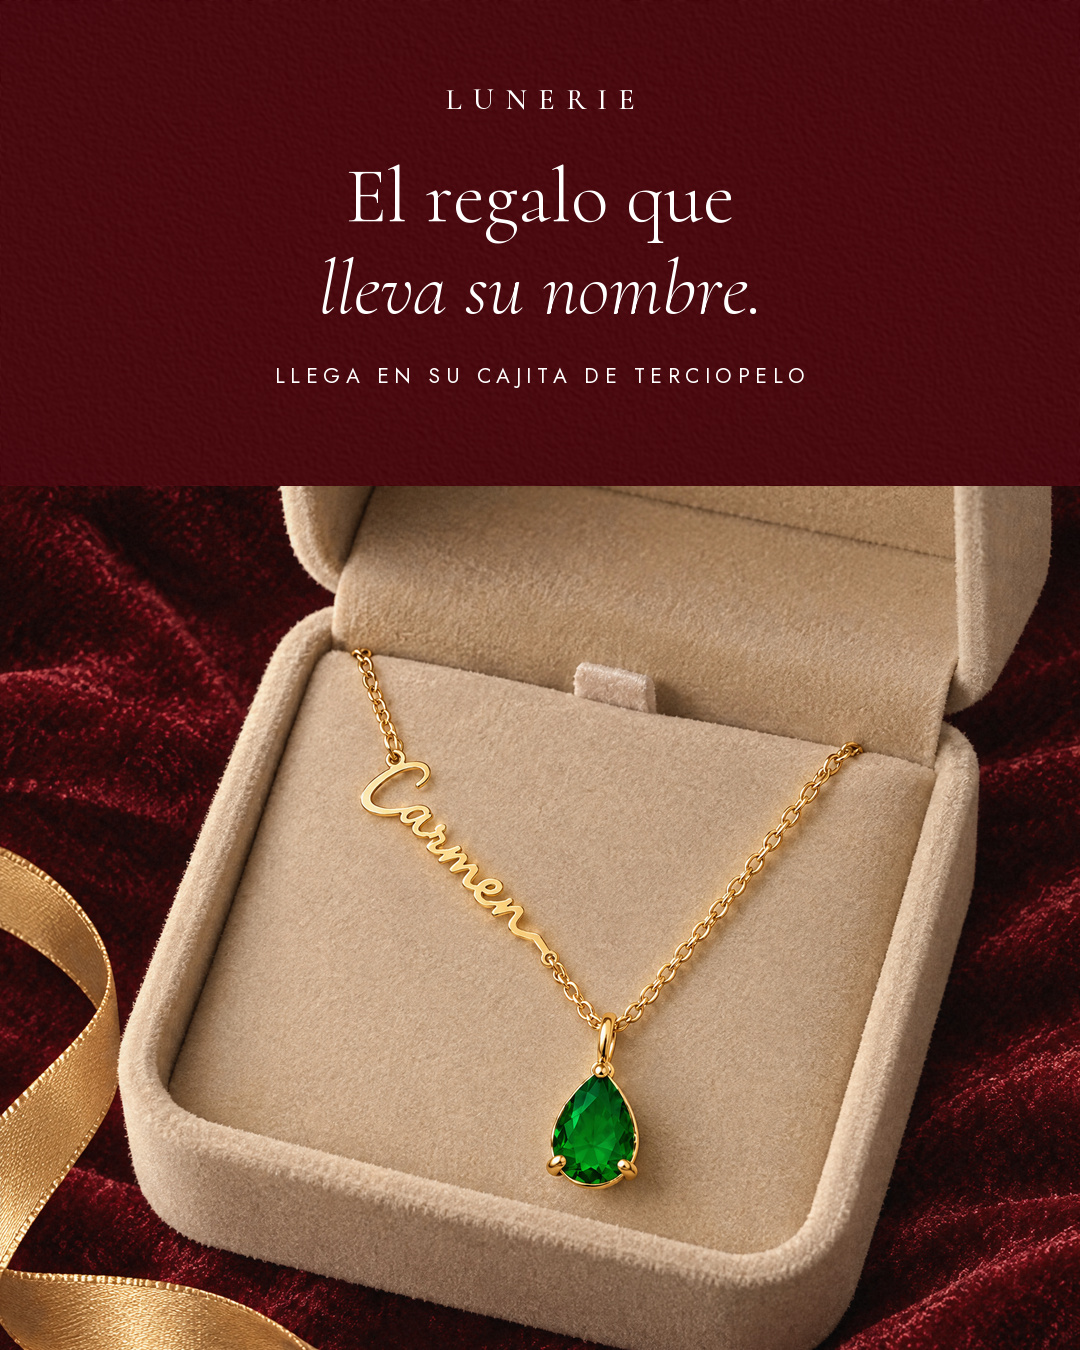
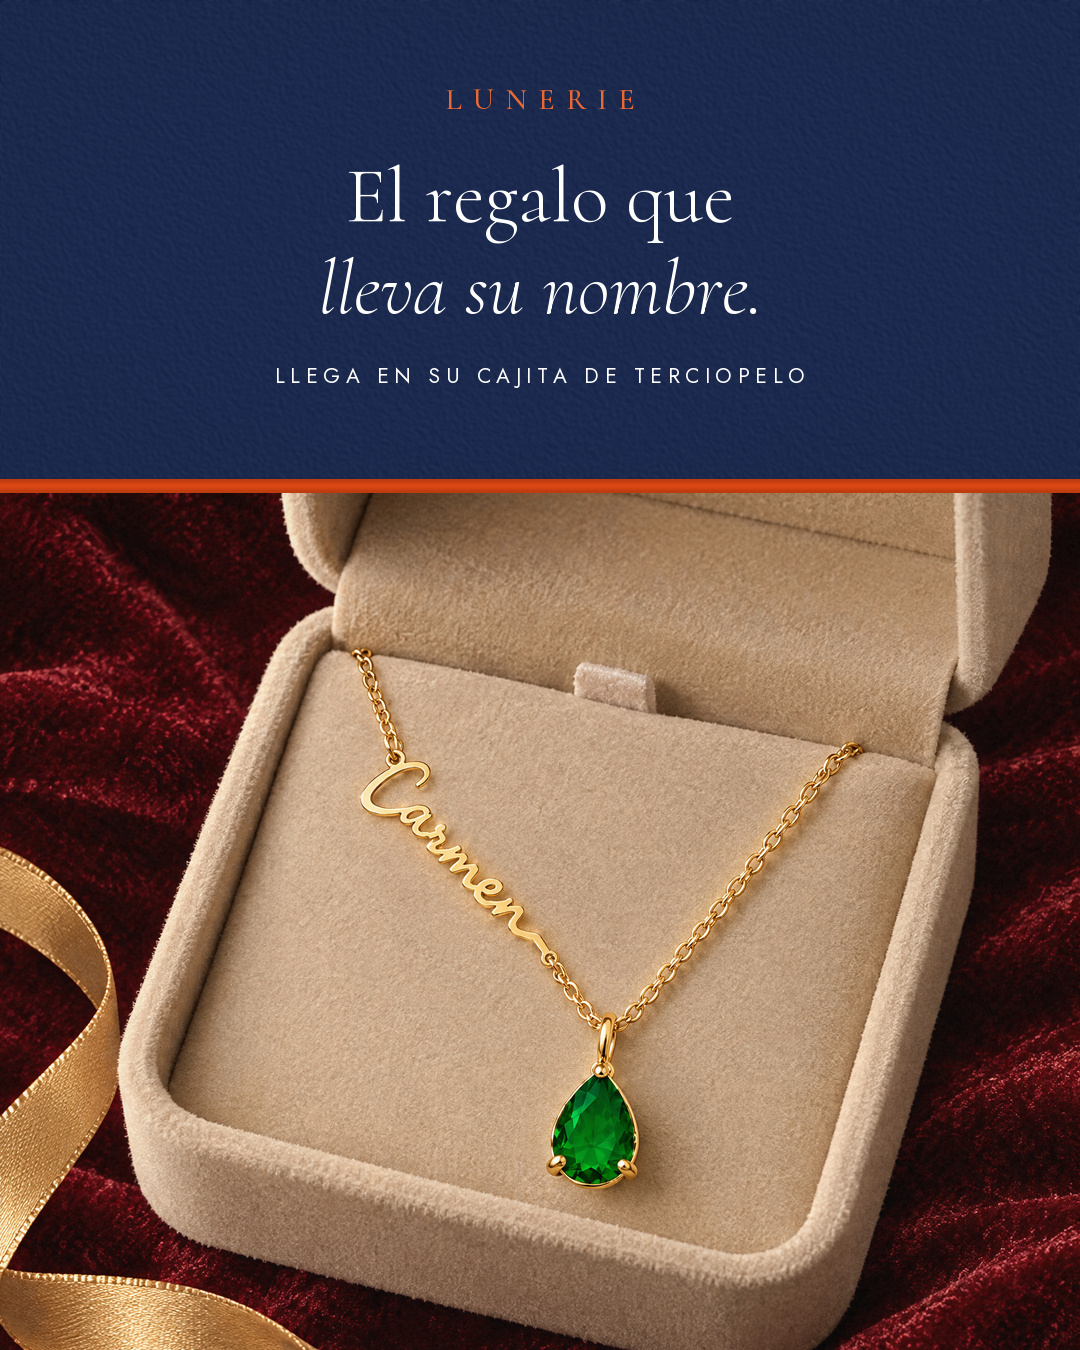
Colores de marca para Instagram y anuncios: naranja de Olivia + azul noche con cinta; manual v2.2

diff --git a/marca/manual/index.html b/marca/manual/index.html
@@ -151,7 +151,7 @@ footer ul { margin: 0; padding-left: 18px; display: grid; gap: 4px; }
     <p class="firma" aria-hidden="true">Carmen</p>
     <h1>Joyas con <em>tu nombre.</em></h1>
     <div class="col"><p>El manual de la marca: quién queremos ser, cómo hablamos, cómo se ve todo lo que publicamos y qué hace falta para crecer. Todo lo que hagamos (la tienda, Instagram, los anuncios, la cajita) sale de aquí.</p></div>
-    <p class="version">Versión 2.1 · 19 de noviembre de 2026 · propuesta para revisar con Edu</p>
+    <p class="version">Versión 2.2 · 19 de noviembre de 2026 · propuesta para revisar con Edu</p>
   </header>
 
   <section>
@@ -224,10 +224,12 @@ footer ul { margin: 0; padding-left: 18px; display: grid; gap: 4px; }
     <div class="paleta">
       <div class="color"><i style="background:#FFFFFF"></i><b>Blanco</b><span>#FFFFFF</span><span>fondo de la tienda</span></div>
       <div class="color"><i style="background:#16201B"></i><b>Tinta</b><span>#16201B</span><span>textos</span></div>
-      <div class="color"><i style="background:#006039"></i><b>Verde Lunerie</b><span>#006039</span><span>botones, tarjeta, pegatina</span></div>
+      <div class="color"><i style="background:#C84011"></i><b>Naranja</b><span>#C84011</span><span>bloques, promos, cinta</span></div>
+      <div class="color"><i style="background:#1B2A4E"></i><b>Azul noche</b><span>#1B2A4E</span><span>bloques, cinta, regalo</span></div>
+      <div class="color"><i style="background:#006039"></i><b>Verde</b><span>#006039</span><span>botones de la web, por ahora</span></div>
       <div class="color"><i style="background:#A6834A"></i><b>Oro</b><span>#A6834A</span><span>la firma y detalles finos</span></div>
       <div class="color"><i style="background:#F2F4F2"></i><b>Niebla</b><span>#F2F4F2</span><span>fondo de producto</span></div>
-      <div class="color"><i style="background:#4A0A10"></i><b>Burdeos</b><span>#4A0A10</span><span>solo en Navidad</span></div>
+      
     </div>
     <div class="letras">
       <div class="letra"><p class="muestra m-disp">Su nombre, <em>su piedra.</em></p><p><strong>Cormorant fina</strong> para titulares. La segunda línea, o una palabra, en cursiva.</p></div>
@@ -287,8 +289,8 @@ footer ul { margin: 0; padding-left: 18px; display: grid; gap: 4px; }
       <figure><img src="img/1-de-cerca.jpg" width="720" height="900" alt="El cuello de Carmen de cerca con el collar, y Tu nombre, tu piedra en blanco sobre la piel." loading="lazy"><figcaption><b>De cerca.</b> El cuello y la joya, nada más.</figcaption></figure>
       <figure><img src="img/2-anotada.jpg" width="720" height="900" alt="El cuello de Elena con el collar, el título SIGNÉ y dos flechas: al nombre, tu nombre en letra de firma; a la piedra, el color de tu mes." loading="lazy"><figcaption><b>Anotada.</b> Flechas que explican la pieza.</figcaption></figure>
       <figure><img src="img/3-producto.jpg" width="720" height="900" alt="El collar Carmen solo sobre fondo claro, con Collar Signé debajo." loading="lazy"><figcaption><b>La pieza sola.</b> El nombre, debajo.</figcaption></figure>
-      <figure><img src="img/4-promo.jpg" width="720" height="900" alt="Bloque verde con relieve: Black Friday, 3x2, la 2.ª al 50 % y la 3.ª gratis; a la derecha, el collar de cerca." loading="lazy"><figcaption><b>Promo partida.</b> Verde Lunerie con relieve.</figcaption></figure>
-      <figure><img src="img/5-regalo.jpg" width="720" height="900" alt="Bloque burdeos con El regalo que lleva su nombre y, debajo, el collar en su cajita de terciopelo." loading="lazy"><figcaption><b>Regalo partido.</b> Burdeos, para Navidad.</figcaption></figure>
+      <figure><img src="img/4-promo.jpg" width="720" height="900" alt="Bloque naranja con relieve: Black Friday, 3x2, la 2.ª al 50 % y la 3.ª gratis; una cinta azul y, a la derecha, el collar de cerca." loading="lazy"><figcaption><b>Promo partida.</b> Naranja con la cinta azul.</figcaption></figure>
+      <figure><img src="img/5-regalo.jpg" width="720" height="900" alt="Bloque azul noche con El regalo que lleva su nombre, una cinta naranja y, debajo, el collar en su cajita de terciopelo." loading="lazy"><figcaption><b>Regalo partido.</b> Azul noche con la cinta naranja.</figcaption></figure>
       <figure><img src="img/6-en-la-mano.jpg" width="720" height="900" alt="Una mano sujeta el collar Marta al sol, sin texto." loading="lazy"><figcaption><b>En la mano.</b> Sin texto.</figcaption></figure>
     </div>
   </section>
@@ -301,7 +303,7 @@ footer ul { margin: 0; padding-left: 18px; display: grid; gap: 4px; }
     </div>
     <ul class="lista">
       <li><span><strong>La firma.</strong> El nombre escrito en letra de firma: en el collar, en la vista previa de la ficha y en la tarjeta, y en los vídeos, el gesto de escribirlo.</span></li>
-      <li><span><strong>El verde Lunerie.</strong> Solo en lo que se pulsa y en lo que se toca: el botón, la tarjeta de la caja, la pegatina del paquete.</span></li>
+      <li><span><strong>El naranja y el azul noche, juntos.</strong> Un bloque de un color con una cinta del otro, como el lazo de un regalo. El naranja es el de Olivia; la combinación con el azul es nuestra.</span></li>
       <li><span><strong>El destello dorado.</strong> La estrella de cuatro puntas del monograma, pequeña, al lado de LUNERIE.</span></li>
       <li><span><strong>La cajita con su nota.</strong> El momento de abrir el regalo es nuestro anuncio gratis: hay que cuidarlo y enseñarlo.</span></li>
     </ul>
@@ -355,7 +357,7 @@ footer ul { margin: 0; padding-left: 18px; display: grid; gap: 4px; }
       <li>¿La idea «Lo tuyo, en una joya» como base de la marca?</li>
       <li>La frase: «Con tu nombre.» (recomendada), «Hecha para ti.» u otra.</li>
       <li>¿Un emoji (✨) en el texto de las publicaciones, como Olivia?</li>
-      <li>El color de las promos: el verde Lunerie (propio) o el rojo de la barra del Black Friday.</li>
+      <li>¿Pasamos el naranja y el azul noche a la web (botones y barra), o la web se queda en verde?</li>
       <li>¿Registramos la marca en la OEPM?</li>
     </ul>
   </section>

diff --git a/marca/editorial.py b/marca/editorial.py
@@ -31,13 +31,21 @@ VERDE, BURDEOS = (0, 96, 57), (74, 10, 16)
 REVELAR = "--sin-revelar" not in sys.argv
 # Prueba de color de marca para los bloques (Edu, 19-nov: «me gusta el naranja y el azul… podríamos probar»).
 # El naranja es un punto más ámbar que el de Olivia (#C84011) para no ser idéntico; el azul es azul noche, por la luna.
-NARANJA, AZUL, NARANJA_VIVO = (194, 83, 27), (27, 42, 78), (234, 114, 46)
+# Colores de marca (Edu, 19-nov): el naranja de Olivia («me mola como el de Olivia, pon ese color») combinado con el azul
+# noche. NARANJA_TEXTO es el mismo naranja algo más claro, para que el texto pequeño se lea sobre el azul.
+NARANJA, AZUL, NARANJA_TEXTO = (200, 64, 17), (27, 42, 78), (234, 104, 52)
 # combinación → (fondo del bloque, texto, acento). Edu (19-nov): «es la combinación de ambos».
-COMBOS = {"verde": (VERDE, BLANCO, BLANCO), "naranja": (NARANJA, BLANCO, BLANCO), "azul": (AZUL, BLANCO, BLANCO),
-          "azul-naranja": (AZUL, BLANCO, NARANJA_VIVO), "naranja-azul": (NARANJA, AZUL, BLANCO)}
+# combinación → (fondo del bloque, texto pequeño, acento de lo grande, cinta entre bloque y foto)
+COMBOS = {"verde": (VERDE, BLANCO, BLANCO, None), "naranja": (NARANJA, BLANCO, BLANCO, None),
+          "azul": (AZUL, BLANCO, BLANCO, None), "burdeos": (BURDEOS, BLANCO, BLANCO, None),
+          "naranja-azul": (NARANJA, BLANCO, AZUL, AZUL), "azul-naranja": (AZUL, BLANCO, NARANJA_TEXTO, NARANJA)}
 COLOR = sys.argv[sys.argv.index("--color") + 1] if "--color" in sys.argv else None
-MARCA, TXT, ACC = COMBOS[COLOR] if COLOR else (VERDE, BLANCO, BLANCO)
-CINTA = {"azul-naranja": NARANJA_VIVO, "naranja-azul": AZUL}.get(COLOR)  # la cinta del otro color entre bloque y foto
+# De serie se alternan: la promo y el bloque de marca en naranja con cinta azul; el regalo en azul con cinta naranja.
+SERIE = {"promo": "naranja-azul", "regalo": "azul-naranja", "marca": "naranja-azul"}
+
+
+def combo(plantilla):
+    return COMBOS[COLOR or SERIE[plantilla]]
 
 
 # ───────────────────────── letra ─────────────────────────
@@ -264,8 +272,9 @@ def piezas(W, H, suf):
              0.775 if not vertical else y_arriba, TINTA)
     hechas.append(guardar(c.pegar(), f"3-producto-{suf}"))
 
-    # 4 · Promo partida (como el Black Friday de Olivia): bloque verde Lunerie con relieve + foto de cerca
+    # 4 · Promo partida (como el Black Friday de Olivia): bloque naranja con relieve, cinta azul y foto de cerca
     src = Image.open(FOTOS / "ugc-lucce/pecho-1.jpg").convert("RGB")
+    MARCA, TXT, ACC, CINTA = combo("promo")
     if not vertical:  # mitad y mitad, en vertical
         mitad = W // 2
         lienzo = Image.new("RGB", (W, H))
@@ -276,7 +285,7 @@ def piezas(W, H, suf):
         cx = mitad / 2
         if CINTA:
             cinta(lienzo, (mitad - round(7 * lienzo.width / 1080), 0, mitad + round(7 * lienzo.width / 1080), H), CINTA)
-        c.bloque([("marca", "LUNERIE")], 0.075, ACC, cx)
+        c.bloque([("marca", "LUNERIE")], 0.075, TXT, cx)
         c.bloque([("titulo", "Black Friday")], 0.25, TXT, cx)
         y = c.bloque([("cifra", "3x2")], 0.33, ACC, cx)
         c.bloque([("linea", "LA 2.ª AL 50 %"), ("linea", "Y LA 3.ª, GRATIS")], (y + 10 * c.k) / H, TXT, cx)
@@ -287,17 +296,21 @@ def piezas(W, H, suf):
         lienzo.paste(textura(W, alto, MARCA), (0, 0))
         ph, _ = caja(src, W, H - alto, 0.42, 0.50, 0.40)
         lienzo.paste(revelar(ph), (0, alto))
+        if CINTA:
+            cinta(lienzo, (0, alto - round(7 * W / 1080), W, alto + round(7 * W / 1080)), CINTA)
         c = Capa(lienzo)
-        c.bloque([("marca", "LUNERIE"), ("titulo", "Black Friday")], 0.15, BLANCO)
-        y = c.bloque([("cifra", "3x2")], 0.225, BLANCO)
-        c.bloque([("linea", "LA 2.ª AL 50 % Y LA 3.ª, GRATIS")], (y + 6 * c.k) / H, BLANCO)
+        c.bloque([("marca", "LUNERIE")], 0.15, TXT)
+        c.bloque([("titulo", "Black Friday")], 0.15 + 64 * c.k / H, TXT)
+        y = c.bloque([("cifra", "3x2")], 0.225, ACC)
+        c.bloque([("linea", "LA 2.ª AL 50 % Y LA 3.ª, GRATIS")], (y + 6 * c.k) / H, TXT)
     hechas.append(guardar(c.pegar(), f"4-promo-{suf}"))
 
-    # 5 · Regalo partido: bloque burdeos con relieve arriba y la cajita abajo, borde limpio
+    # 5 · Regalo partido: bloque azul noche con relieve arriba, cinta naranja y la cajita abajo, borde limpio
     src = Image.open(FOTOS / "terciopelo/cajita-carmen-1.jpg").convert("RGB")
+    MARCA, TXT, ACC, CINTA = combo("regalo")
     alto = round(H * (0.36 if not vertical else 0.42))
     lienzo = Image.new("RGB", (W, H))
-    lienzo.paste(textura(W, alto, MARCA if COLOR else BURDEOS, 5), (0, 0))
+    lienzo.paste(textura(W, alto, MARCA, 5), (0, 0))
     ph, _ = caja(src, W, H - alto, 0.5, 0.58, 0.78 if not vertical else 0.80)
     lienzo.paste(revelar(ph), (0, alto))
     if CINTA:
@@ -318,6 +331,7 @@ def piezas(W, H, suf):
 
 def bloque_marca(W, H, suf):
     """7 · La marca sola en su color (como la portada naranja de Olivia), para anuncios de novedad o temporada."""
+    MARCA, TXT, ACC, CINTA = combo("marca")
     lienzo = textura(W, H, MARCA, 9)
     c = Capa(lienzo)
     k = c.k
@@ -340,5 +354,5 @@ if __name__ == "__main__":
             print(r)
     else:
         for W, H, s in ((1080, 1350, "4x5"), (1080, 1920, "9x16")):
-            for r in piezas(W, H, s if REVELAR else s + "-sin-revelar"):
+            for r in piezas(W, H, s if REVELAR else s + "-sin-revelar") + [bloque_marca(W, H, s)]:
                 print(r)

diff --git a/CLAUDE.md b/CLAUDE.md
@@ -38,7 +38,10 @@
   análisis en `oficina/referencias/olivia-ig-2026-11-19/README.md`): encuadre cerrado en la joya (sin brazo ni reloj de
   relleno), texto blanco sobre la piel sin degradados, flechas que anotan la pieza, promos partidas en bloque de color con
   relieve. Plantillas: `python marca/editorial.py` (6, en 4:5 y 9:16; revelado de película solo en piel y fondo, la joya
-  intacta). Contenido: 45 % para ti, 30 % para regalar (con «y otro para ti»), 15 % la pieza, 10 % promos. **Fotos reales: no
+  intacta). Contenido: 45 % para ti, 30 % para regalar (con «y otro para ti»), 15 % la pieza, 10 % promos.
+  **Colores de Instagram y anuncios (Edu, 19-nov): el naranja de Olivia #C84011 combinado con azul noche #1B2A4E**
+  (bloque de un color + cinta de raso del otro; de serie: promo y bloque de marca en naranja con cinta azul, regalo en azul
+  con cinta naranja; `--color` para otras). La web sigue en verde hasta que Edu diga si se cambia. **Fotos reales: no
   por ahora (Edu): IA con buenas referencias reales del producto.**
 - **Logos (13-oct), en `marca/logos/`:** logo LUNERIE en tinta / blanco / oro (SVG + PNG, `marca/logos.py`).
   **Monograma oficial: L cursiva (Cormorant Italic) + destello dorado de 4 puntas, fondo verde** →
